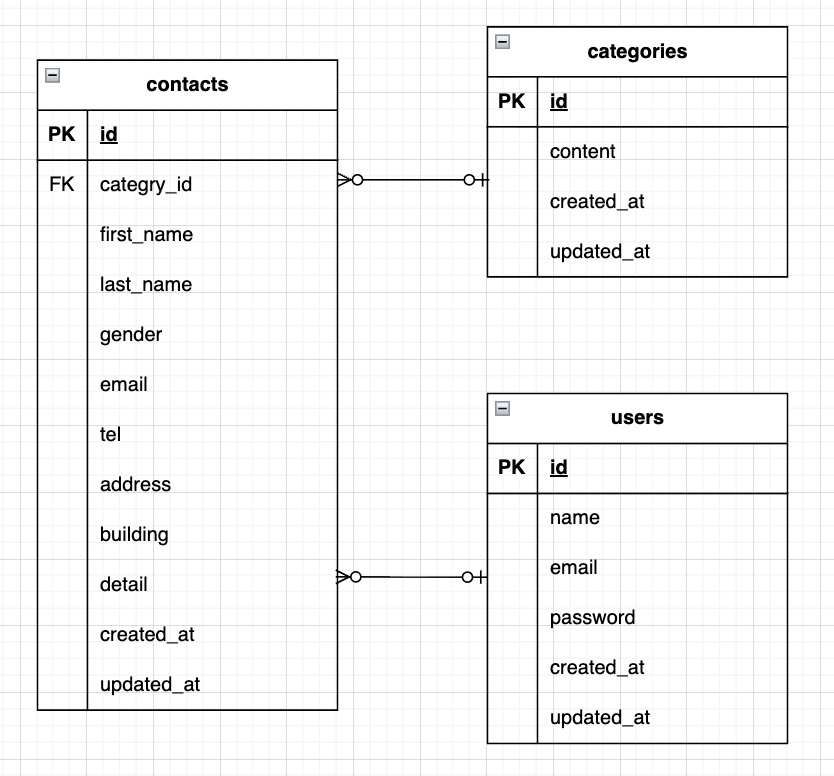
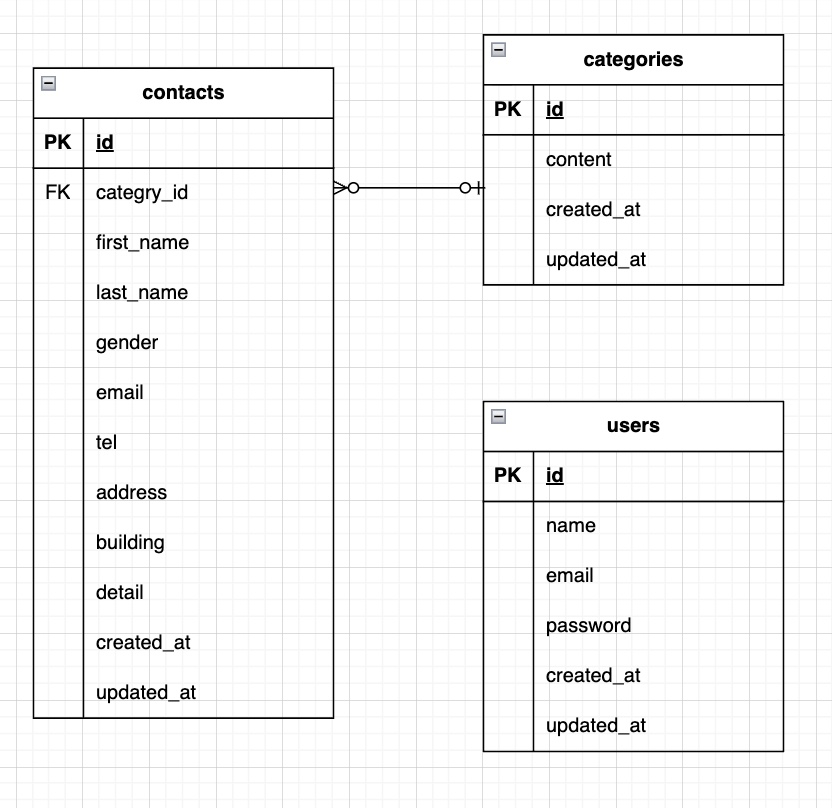
READEME修正

diff --git a/src/database/migrations/2026_05_31_114347_create_contacts_table.php b/src/database/migrations/2026_05_31_114347_create_contacts_table.php
@@ -1,0 +1,40 @@
+<?php
+
+use Illuminate\Database\Migrations\Migration;
+use Illuminate\Database\Schema\Blueprint;
+use Illuminate\Support\Facades\Schema;
+
+class CreateContactsTable extends Migration
+{
+    /**
+     * Run the migrations.
+     *
+     * @return void
+     */
+    public function up()
+    {
+        Schema::create('contacts', function (Blueprint $table) {
+            $table->id();
+            $table->foreignId('category_id')->constrained();
+            $table->string('first_name');
+            $table->string('last_name');
+            $table->tinyInteger('gender');
+            $table->string('email');
+            $table->string('tel');
+            $table->string('address');
+            $table->string('building')->nullable();
+            $table->text('detail');
+            $table->timestamps();
+        });
+    }
+
+    /**
+     * Reverse the migrations.
+     *
+     * @return void
+     */
+    public function down()
+    {
+        Schema::dropIfExists('contacts');
+    }
+}

diff --git a/src/database/migrations/2026_05_31_114434_create_categories_table.php b/src/database/migrations/2026_05_31_114434_create_categories_table.php
@@ -1,0 +1,31 @@
+<?php
+
+use Illuminate\Database\Migrations\Migration;
+use Illuminate\Database\Schema\Blueprint;
+use Illuminate\Support\Facades\Schema;
+
+class CreateCategoriesTable extends Migration
+{
+    /**
+     * Run the migrations.
+     *
+     * @return void
+     */
+    public function up()
+    {
+        Schema::create('categories', function (Blueprint $table) {
+            $table->id();
+            $table->timestamps();
+        });
+    }
+
+    /**
+     * Reverse the migrations.
+     *
+     * @return void
+     */
+    public function down()
+    {
+        Schema::dropIfExists('categories');
+    }
+}
